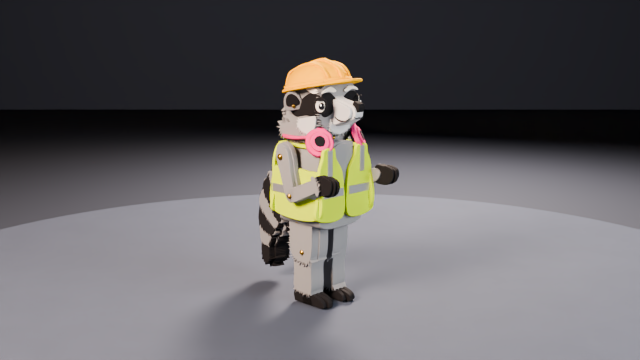
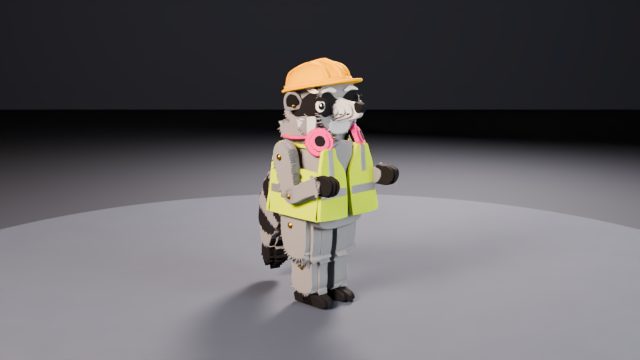
Pickles revision: rounded head, tapered snout, chunky fringed thighs, softer vest
Claude-Session: https://claude.ai/code/session_01BntmWCku4jb1pF4QRZCMzN

Changed region(s): [[0.4062, 0.2444, 0.5938, 0.825], [0.4062, 0.3361, 0.4375, 0.3667]]

diff --git a/scripts/builders/pickles.py b/scripts/builders/pickles.py
@@ -268,6 +268,16 @@ def _curve_to_mesh(obj):
     return new
 
 
+def _tilt(objs, pivot, axis, deg):
+    """Rotate already-placed pieces about a world pivot (e.g. flare a vest hem)."""
+    pv = Vector(pivot)
+    mx = Matrix.Translation(pv) @ Matrix.Rotation(math.radians(deg), 4, axis) \
+        @ Matrix.Translation(-pv)
+    bpy.context.view_layer.update()
+    for o in objs:
+        o.matrix_world = mx @ o.matrix_world
+
+
 def _pin(name, loc, normal, coll, r=0.016):
     return geo.split_pin(P + "pin_" + name, loc, normal, r=r, coll=coll)
 
@@ -442,44 +452,50 @@ def _torso(coll, m, att):
     # Hi-vis vest: real felt panels with visible cut edges.
     hem = 0.52
     for sfx, s in (("L", 1), ("R", -1)):
-        half = [(0.018, 0.735), (0.07, 0.83), (0.085, 0.885), (0.16, 0.885), (0.175, 0.835),
-                (0.2, 0.765), (0.205, 0.64), (0.212, hem), (0.02, hem - 0.005)]
-        pts = outline([(x * s, z) for x, z in half], "sssssssss", jit=0.0015)
-        att(front(P + f"vest_front.{sfx}", pts, -0.172, 0.024, m["hivis"], coll, bevel=0.005),
-            "spine.02")
+        half = [(0.018, 0.735), (0.07, 0.83), (0.085, 0.885), (0.16, 0.885), (0.178, 0.84),
+                (0.2, 0.77), (0.207, 0.66), (0.222, 0.56), (0.224, 0.53), (0.205, hem - 0.004),
+                (0.045, hem - 0.006), (0.02, hem + 0.02)]
+        pts = outline([(x * s, z) for x, z in half], "ssssssssssss", jit=0.0015)
+        vf = att(front(P + f"vest_front.{sfx}", pts, -0.172, 0.024, m["hivis"], coll,
+                       bevel=0.008), "spine.02")
         # stripe across the front half
         tp = outline([(0.02 * s, 0.628), (0.207 * s, 0.628), (0.208 * s, 0.672),
                       (0.02 * s, 0.672)], "cccc", jit=0.0006)
-        att(front(P + f"vest_stripe_front.{sfx}", tp, -0.195, 0.004, m["tape"], coll,
-                  bevel=0.001), "spine.02")
+        vs = att(front(P + f"vest_stripe_front.{sfx}", tp, -0.195, 0.004, m["tape"], coll,
+                       bevel=0.001), "spine.02")
         # strap tape over the shoulder
         tp = outline([(0.105 * s, 0.742), (0.14 * s, 0.742), (0.14 * s, 0.88),
                       (0.105 * s, 0.88)], "cccc", jit=0.0005)
-        att(front(P + f"vest_strap_tape.{sfx}", tp, -0.195, 0.004, m["tape"], coll,
-                  bevel=0.001), "spine.02")
+        vt = att(front(P + f"vest_strap_tape.{sfx}", tp, -0.195, 0.004, m["tape"], coll,
+                       bevel=0.001), "spine.02")
+        _tilt((vf, vs, vt), (0, -0.172, 0.88), "X", -5.0)  # hem flares forward
         # side panel (under the arm)
-        sp = outline([(-0.19, hem), (-0.19, 0.745), (-0.1, 0.77), (0.0, 0.775), (0.1, 0.77),
-                      (0.158, 0.745), (0.158, hem)], "sssssss", jit=0.0015)
+        sp = outline([(-0.19, hem + 0.02), (-0.19, 0.745), (-0.1, 0.77), (0.0, 0.775),
+                      (0.1, 0.77), (0.158, 0.745), (0.16, hem + 0.02), (0.14, hem - 0.004),
+                      (-0.17, hem - 0.004)], "sssssssss", jit=0.0015)
         x0 = 0.182 if s > 0 else -0.204
-        att(side(P + f"vest_side.{sfx}", sp, x0, x0 + 0.022, m["hivis"], coll, bevel=0.005),
-            "spine.02")
+        vd = att(side(P + f"vest_side.{sfx}", sp, x0, x0 + 0.022, m["hivis"], coll,
+                      bevel=0.008), "spine.02")
         sp = outline([(-0.19, 0.628), (0.158, 0.628), (0.158, 0.672), (-0.19, 0.672)], "cccc",
                      jit=0.0006)
         x0 = 0.203 if s > 0 else -0.207
-        att(side(P + f"vest_stripe_side.{sfx}", sp, x0, x0 + 0.004, m["tape"], coll,
-                 bevel=0.001), "spine.02")
+        ve = att(side(P + f"vest_stripe_side.{sfx}", sp, x0, x0 + 0.004, m["tape"], coll,
+                      bevel=0.001), "spine.02")
+        _tilt((vd, ve), (0.19 * s, 0, 0.77), "Y", -5.0 * s)  # hem flares out
         # shoulder yoke joining front and back
         yk = geo.box(P + f"vest_yoke.{sfx}", (0.078, 0.34, 0.02), (0.122 * s, -0.012, 0.886),
                      mat=m["hivis"], coll=coll, bevel=0.006)
         att(yk, "spine.02")
     back, _ = sym([(0.0, 0.845), (0.07, 0.86), (0.085, 0.885), (0.16, 0.885), (0.2, 0.8),
-                   (0.206, 0.64), (0.212, hem), (0.0, hem - 0.005)])
-    att(front(P + "vest_back", outline(back, jit=0.0015), 0.164, 0.022, m["hivis"], coll,
-              bevel=0.005), "spine.02")
+                   (0.207, 0.66), (0.222, 0.56), (0.224, 0.53), (0.205, hem - 0.004),
+                   (0.0, hem - 0.006)])
+    vb = att(front(P + "vest_back", outline(back, jit=0.0015), 0.164, 0.022, m["hivis"], coll,
+                   bevel=0.008), "spine.02")
     tp = outline([(-0.208, 0.628), (0.208, 0.628), (0.208, 0.672), (-0.208, 0.672)], "cccc",
                  jit=0.0006)
-    att(front(P + "vest_stripe_back", tp, 0.168, 0.004, m["tape"], coll, bevel=0.001),
-        "spine.02")
+    vbs = att(front(P + "vest_stripe_back", tp, 0.168, 0.004, m["tape"], coll, bevel=0.001),
+              "spine.02")
+    _tilt((vb, vbs), (0, 0.164, 0.88), "X", 5.0)
 
     # Neck with a fringed ruff collar under the chin.
     nk = outline([(-0.08, 0.86), (0.09, 0.86), (0.095, 0.99), (-0.085, 0.99)], "ssss")
@@ -531,14 +547,14 @@ def _arms(coll, m, att):
         sh, el, wr = SHOULDER, ELBOW, WRIST
 
         def upper(k=1.0):
-            pts, st = _limb(_yz(sh) + Vector((0, 0.03)), _yz(el), 0.105 * k, 0.078 * k,
-                            "ssssssss")
-            return outline(pts, st)
+            pts, st = _limb(_yz(sh) + Vector((0, 0.03)), _yz(el), 0.125 * k, 0.092 * k,
+                            "ffssffss" if k < 1 else "ssssssss")
+            return outline(pts, st, fur=0.02, fur_sp=0.013, lean=0.5)
 
         def fore(k=1.0):
-            pts, st = _limb(_yz(el), _yz(wr), 0.078 * k, 0.07 * k, "ssssssss")
+            pts, st = _limb(_yz(el), _yz(wr), 0.094 * k, 0.082 * k, "ssssssss")
             return outline(pts, st)
-        xs = (0.197, 0.232, 0.259) if s > 0 else (-0.259, -0.232, -0.197)
+        xs = (0.197, 0.234, 0.266) if s > 0 else (-0.266, -0.234, -0.197)
         if s > 0:
             inner, outer = (xs[0], xs[1]), (xs[1] - 0.004, xs[2])
         else:
@@ -555,13 +571,13 @@ def _arms(coll, m, att):
         d = (_yz(wr) - _yz(el)).normalized()
         nrm = Vector((-d.y, d.x))
         cw = _yz(wr) - d * 0.012
-        cuff = [cw + nrm * 0.045, cw + nrm * 0.04 + d * 0.022, cw - nrm * 0.04 + d * 0.022,
-                cw - nrm * 0.045]
+        cuff = [cw + nrm * 0.05, cw + nrm * 0.045 + d * 0.022, cw - nrm * 0.045 + d * 0.022,
+                cw - nrm * 0.05]
         cp = outline([(p.x, p.y) for p in cuff], "sfss", fur=0.02, fur_sp=0.0112)
-        xo = 0.254 if s > 0 else -0.264
+        xo = 0.261 if s > 0 else -0.271
         att(side(P + f"arm_cuff.{sfx}", cp, xo, xo + 0.01, m["grey"], coll), f"forearm.{sfx}")
         # Pins: shoulder and elbow on the outside.
-        xp = 0.262 * s
+        xp = 0.269 * s
         att(_pin(f"shoulder.{sfx}", Vector((xp, sh.y + 0.005, sh.z + 0.005)), (s, 0, 0), coll),
             f"upper_arm.{sfx}")
         att(_pin(f"elbow.{sfx}", Vector((xp, el.y, el.z)), (s, 0, 0), coll, r=0.013),
@@ -590,31 +606,34 @@ def _arms(coll, m, att):
 
 def _legs(coll, m, att):
     for sfx, s in (("L", 1), ("R", -1)):
-        def thigh(k=1.0):
-            c = [(-0.075, 0.56), (0.02, 0.575), (0.105, 0.55), (0.1, 0.4), (0.075, 0.275),
-                 (0.0, 0.25), (-0.07, 0.27), (-0.085, 0.42)]
-            if k != 1.0:
-                c = scaled(c, (k, 1.0), (0.01, 0.4))
-            return outline(c, "sssFFFss", fur=0.0275, fur_sp=0.0144)
+        def thigh(ky=1.0, kz=1.0):
+            c = [(-0.1, 0.55), (0.0, 0.58), (0.115, 0.555), (0.13, 0.44), (0.105, 0.31),
+                 (0.04, 0.245), (-0.04, 0.24), (-0.1, 0.29), (-0.115, 0.42)]
+            c = scaled(c, (ky, kz), (0.005, 0.42))
+            return outline(c, "ssspFFFss", fur=0.028, fur_sp=0.014)
 
-        def shin(k=1.0):
-            c = [(-0.058, 0.31), (0.06, 0.31), (0.07, 0.17), (0.068, 0.085), (0.0, 0.07),
-                 (-0.06, 0.085), (-0.062, 0.2)]
-            if k != 1.0:
-                c = scaled(c, (k, 1.0), (0.0, 0.2))
+        def shin(ky=1.0):
+            c = [(-0.075, 0.3), (0.08, 0.3), (0.09, 0.19), (0.085, 0.1), (0.0, 0.07),
+                 (-0.08, 0.1), (-0.085, 0.2)]
+            c = scaled(c, (ky, 1.0), (0.0, 0.2))
             return outline(c, "sssFFss", fur=0.025, fur_sp=0.0128)
 
         def X(a, b):
             return (a, b) if s > 0 else (-b, -a)
-        att(side(P + f"thigh.{sfx}", thigh(), *X(0.022, 0.088), m["grey"], coll, bevel=0.005),
+        # chunky rounded thigh: three layers, each smaller toward the outside
+        att(side(P + f"thigh.{sfx}", thigh(), *X(0.018, 0.098), m["grey"], coll, bevel=0.006),
             f"thigh.{sfx}")
-        att(side(P + f"thigh_outer.{sfx}", thigh(0.92), *X(0.084, 0.142), m["grey"], coll,
-                 bevel=0.005), f"thigh.{sfx}")
-        att(side(P + f"shin.{sfx}", shin(), *X(0.035, 0.132), m["grey"], coll, bevel=0.005),
+        att(side(P + f"thigh_outer.{sfx}", thigh(0.95, 0.93), *X(0.093, 0.16), m["grey"], coll,
+                 bevel=0.006), f"thigh.{sfx}")
+        att(side(P + f"thigh_cap.{sfx}", thigh(0.8, 0.74), *X(0.155, 0.195), m["grey"], coll,
+                 bevel=0.006), f"thigh.{sfx}")
+        att(side(P + f"shin.{sfx}", shin(), *X(0.028, 0.092), m["grey"], coll, bevel=0.006),
             f"shin.{sfx}")
-        att(_pin(f"hip.{sfx}", Vector((0.146 * s, 0.03, 0.475)), (s, 0, 0), coll),
+        att(side(P + f"shin_outer.{sfx}", shin(0.9), *X(0.087, 0.14), m["grey"], coll,
+                 bevel=0.006), f"shin.{sfx}")
+        att(_pin(f"hip.{sfx}", Vector((0.197 * s, 0.03, 0.455)), (s, 0, 0), coll),
             f"thigh.{sfx}")
-        att(_pin(f"knee.{sfx}", Vector((0.146 * s, -0.005, 0.3)), (s, 0, 0), coll, r=0.013),
+        att(_pin(f"knee.{sfx}", Vector((0.142 * s, 0.0, 0.215)), (s, 0, 0), coll, r=0.013),
             f"shin.{sfx}")
         # Foot: black felt, three toe layers with slits between them.
         heel = [(0.075, 0.006), (0.085, 0.045), (0.05, 0.1), (-0.03, 0.1), (-0.05, 0.06)]
@@ -770,8 +789,8 @@ def _head(coll, m, att):
         add(o)
     # Cheek fur flaring out at the sides (front-facing, so it reads from the front and 3/4).
     for sfx, s in (("L", 1), ("R", -1)):
-        fl = [(0.09, 1.075), (0.15, 1.07), (0.19, 1.035), (0.2, 0.985), (0.16, 0.945),
-              (0.1, 0.94), (0.08, 1.0)]
+        fl = [(0.09, 1.05), (0.14, 1.045), (0.175, 1.015), (0.182, 0.975), (0.15, 0.94),
+              (0.1, 0.935), (0.08, 0.99)]
         fl = [(x * s, z) for x, z in fl]
         o = add(front(P + f"cheek_flare.{sfx}", outline(fl, "sffffss", fur=0.026, fur_sp=0.014,
                                                         lean=0.35), -0.08, 0.022, m["grey"],
@@ -781,10 +800,10 @@ def _head(coll, m, att):
         o.matrix_world = (Matrix.Translation(pv) @ Matrix.Rotation(math.radians(35 * s), 4, "Z")
                           @ Matrix.Translation(-pv) @ o.matrix_world)
     # Back of the head: a fringed panel so the head reads round from behind.
-    bk, st = sym([(0.0, 1.17), (0.08, 1.15), (0.12, 1.08), (0.115, 1.0), (0.07, 0.96),
-                  (0.0, 0.95)], "ssfff")
+    bk, st = sym([(0.0, 1.06), (0.07, 1.055), (0.11, 1.03), (0.105, 0.98), (0.06, 0.95),
+                  (0.0, 0.945)], "ssfff")
     add(panel(P + "head_back", outline(bk, st, fur=0.022, fur_sp=0.016), 0.025,
-              (0, 0.142, 0), (0, 1, 0), (0, 0, 1), m["grey"], coll, bevel=0.005))
+              (0, 0.118, 0), (0, 1, 0), (0, 0, 1), m["grey"], coll, bevel=0.005))
     # Front face plate: round, with fringed cheeks.
     fp, st = sym([(0.0, 1.24), (0.075, 1.23), (0.118, 1.19), (0.132, 1.13), (0.13, 1.07),
                   (0.112, 1.015), (0.075, 0.978), (0.03, 0.962), (0.0, 0.96)], "sssfffffs")
